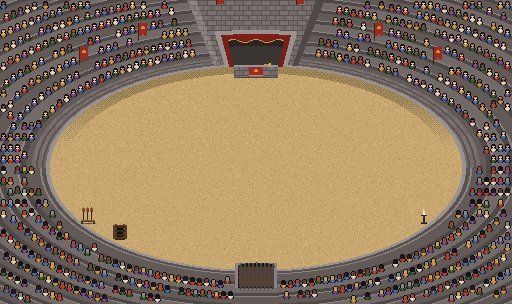
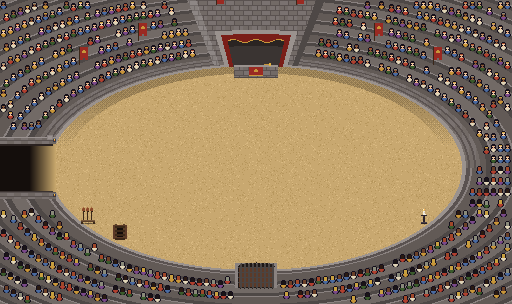
The Kaloseum's fighters' tunnel: the medics carry the guards off into it, and Balderek comes out of it (episode and game)
Claude-Session: https://claude.ai/code/session_01M3Peeuj4v63JAjidnU8Moq

Changed region(s): [[0.0, 0.4145, 0.125, 0.6809]]

diff --git a/src/world/dungeon.ts b/src/world/dungeon.ts
@@ -257,6 +257,7 @@ export const PRISON_INTROS: Record<string, PrisonIntro> = {
       "BARNABY: You're in for it now! The second greatest champion... aside from the king, of course...",
       '* STOMP.',
       'BARNABY: BALDEREK!!!!',
+      "* Out of the dark of the fighters' tunnel he comes, twice the size of anyone, and every stride shakes the sand.",
       'BALDEREK: Barnaby. Prisoners loose on my sand, and you are up there with a horn.',
       "BARNABY: I didn't think you'd be back from your vacation so soon.",
       'BALDEREK: It was not a vacation. The east gate was off its hinges. Somebody had to hang it.',
@@ -320,7 +321,9 @@ export const PRISON_GUARDS_DOWN = [
   "BARNABY: UNACCEPTABLE! Five of the king's finest, bested by a lone escapee! What do we pay you for?",
   // one of them, flat on the sand, gets it out (author, Oct 8, 2026): the guards have never been paid
   "GUARD: You don't pay us at all.",
-  'STOMP. The whole Kaloseum shakes. STOMP. Something very big is coming up from below.',
+  // the Kaloseum's tiny medics clear the sand (Episode 14)
+  "* The Kaloseum's medics run on with cots, two to a guard, and hurry all five of them off into the fighters' tunnel.",
+  "* STOMP. The whole Kaloseum shakes. STOMP. Something very big is coming up the fighters' tunnel.",
 ];
 
 /** Twenty strikes in: Balderek has had enough, and Brannoc gets up, asleep. */

diff --git a/EPISODES.md b/EPISODES.md
@@ -100,10 +100,10 @@ don't follow the crime (twenty, then *one*, then fifty), and the last one gets a
   Barnaby (box, the screen jolts): "UNACCEPTABLE! Five of the king's finest, bested by a lone escapee! What do we pay
   you for?" The guard in front of you, slowly, because he's hurt: "You don't pay us at all." While he gets it out, the
   Kaloseum's tiny medics (`medic`, a red cross on white) run on in single file, two to a guard, roll each onto a cot,
-  and carry them all off as the ground starts to shake. STOMP. STOMP. (A giant's
+  and carry them all off into the fighters' tunnel as the ground starts to shake. STOMP. STOMP. (A giant's
   footfall: `assets/audio/stomp.wav`, `scripts/stomp-sound.mjs`; the screen jumps on each.) Barnaby: "You're in for it
-  now! The second greatest champion... aside from the king, of course..." STOMP: up out of the trapdoor climbs the
-  Warden, twice anyone's size: "BALDEREK!!!!" (author, Oct 8: the Warden is Balderek, renamed from Bertrand; his old
+  now! The second greatest champion... aside from the king, of course..." STOMP: out of the dark of the fighters' tunnel (a
+  stone-framed opening in the west end of the stands, `7` on the map) comes the Warden, twice anyone's size: "BALDEREK!!!!" (author, Oct 8: the Warden is Balderek, renamed from Bertrand; his old
   name, Aurek, stays a secret). Two stomping strides your way. The menu, as the game has it: *How's the weather up
   there?* Balderek: "Cloudy... with a chance of pain." Cut. (Cut along the way, in the game: Balderek and Barnaby on the
   horn and the vacation.) All dialogue a touch slower from here on (author: "it reads way too fast": 28 ms a letter, 1.4×
